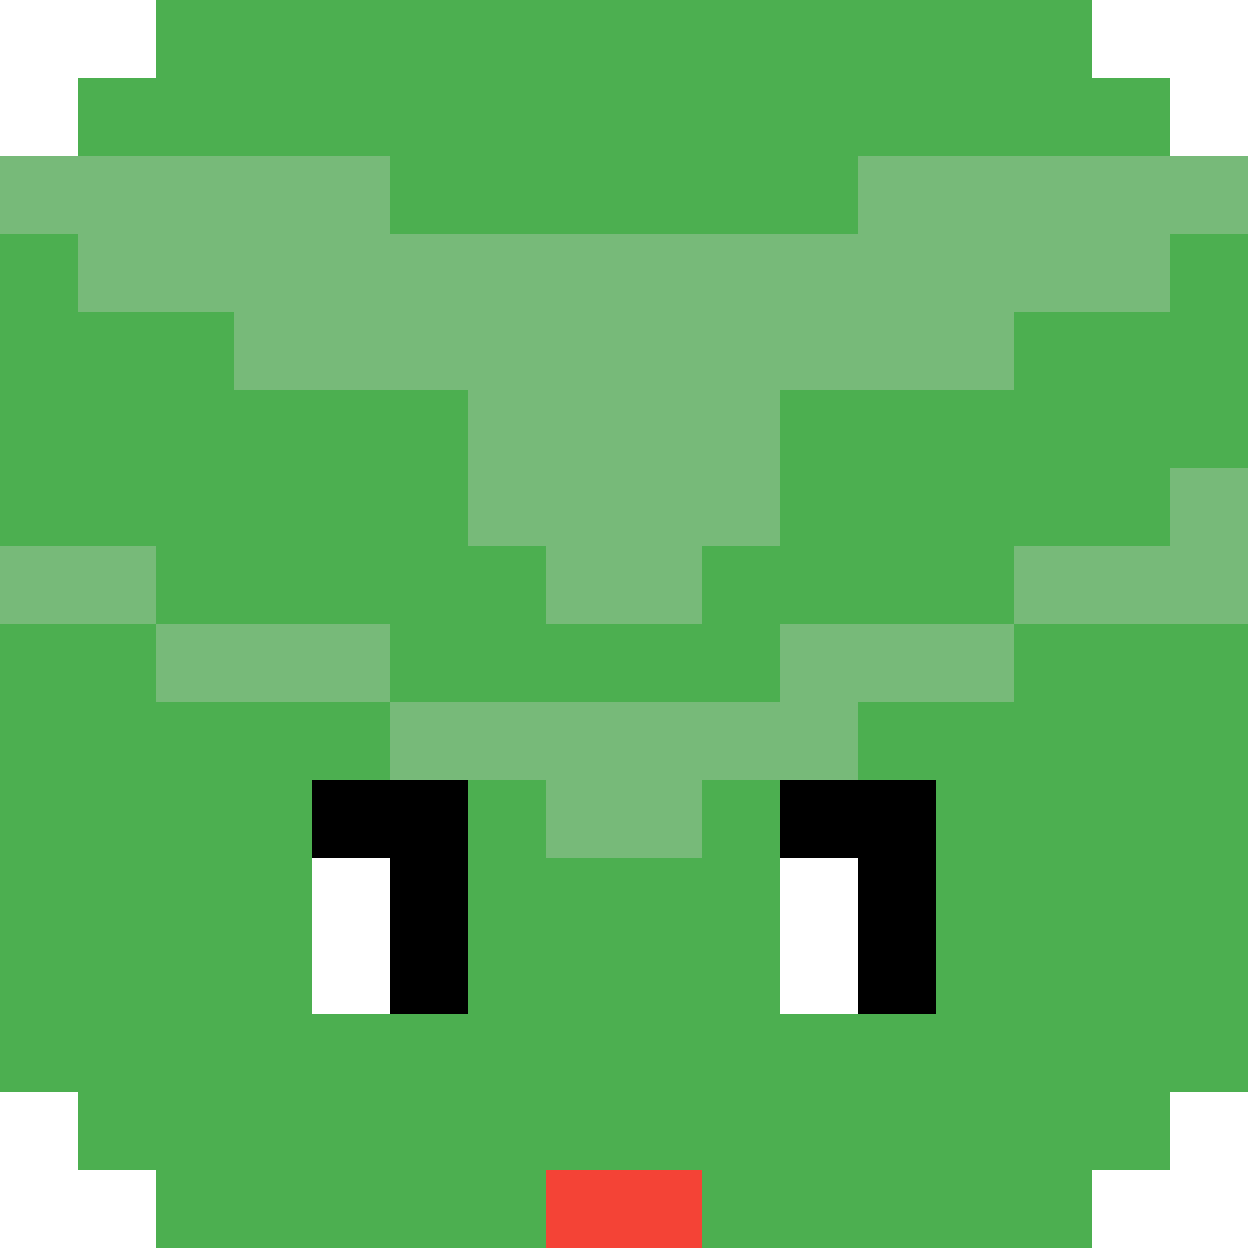
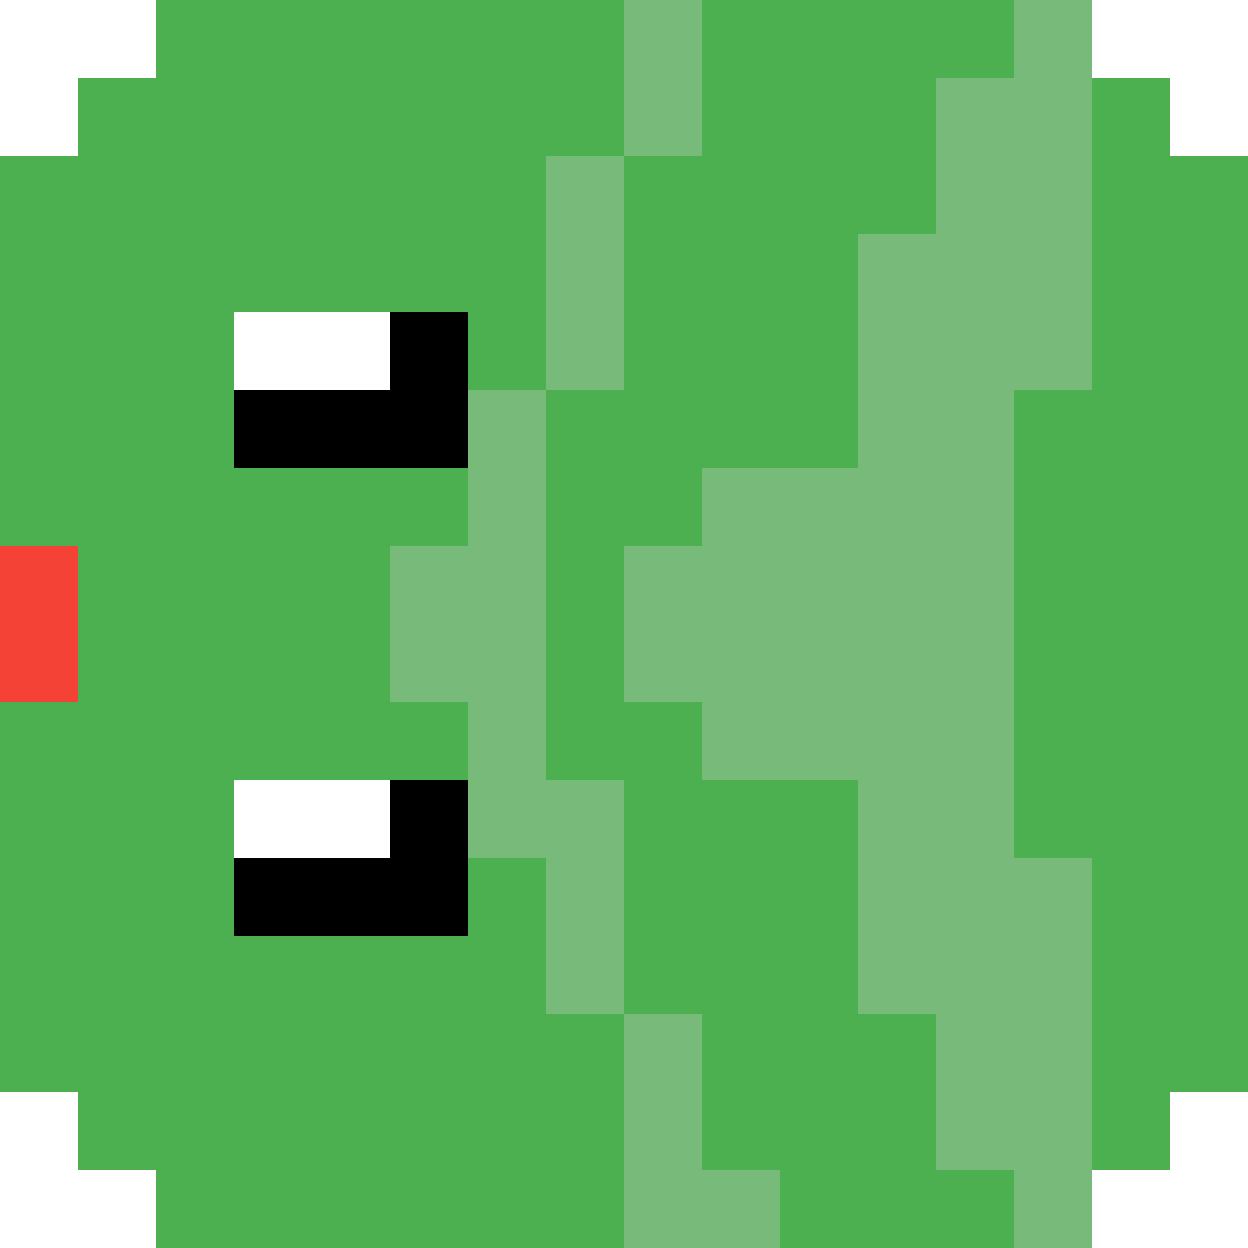
head changes position based off of key press

diff --git a/snakeGame/snakeGame.js b/snakeGame/snakeGame.js
@@ -1,27 +1,5 @@
-/*
-The board will have 18X18 squares, where each 
-at the top-left hand square is 0,0 and the bottom
-right-hand square is 17, 17
-
-Will be set up like so: board[x][y], where x is moving along
-columns (left and right) and y is moving along the rows (up and down) 
-
-Going down and right is positive, going left and up is negative
-*/
-
-/*
-Size of the board 
-----------------------------
-We will use a variable called boxSize, referring to the size
-of each box in the board
-Ex: if the boxSize = 25, and you wanted the food box at (1,1) or [1][1],
-you would have to write [1 * 25][1 * 25] in order for it to actually show. 
-If we didn't multiple it with the box size, then it wouldn't show up on the 
-canvas.
-*/
-
 //board
-var blockSize = 25; //what we're using to fill in the coordinates
+var blockSize = 25; 
 var rows = 20;
 var cols = 30;
 var board;
@@ -31,6 +9,10 @@ var context; //Used to draw with/ our drawing object
 //Width and height of snake and its semgents
 var snakeWidth = 31;
 var snakeHeight = 31;
+
+//Width and height of food
+var foodWidth = 20;
+var foodHeight = 20;
 
 //Drawing the snake head - the snake will initially start at coordinate (5, 5)
 //We have to multiply each coordinate by the blockSize for it to actually fill the coordinate space
@@ -45,8 +27,8 @@ var velocityY = 0;
 var snakeBody = [];
 
 //drawing food 
-var foodX = 100;
-var foodY = 300;
+var foodX = 200;
+var foodY = 200;
 
 //drawing obstacle
 var currX = 0;
@@ -62,26 +44,36 @@ var highestScore = 0;
 
 //When the page loads...
 window.onload = function() {
-    board = document.getElementById("board"); //Now the element board is this canvas element tag
-    board.height = 490;//rows * blockSize;
-    board.width = 700;//cols * blockSize;
-    context = board.getContext("2d"); //used for drawing on the board
-    context.clearRect(0, 0, board.width, board.height);
+    board = document.getElementById("board"); 
+    board.height = rows * blockSize;
+    board.width = cols * blockSize;
+    context = board.getContext("2d"); 
 
     //loading the images
+    //Snake Head images
+
+    snakeHeadPositions = {
+        up: new Image(),
+        down: new Image(),
+        left: new Image(),
+        right: new Image()
+    };
+
+    snakeHeadPositions.up.src = "./snakeHeadUp.png";
+    snakeHeadPositions.down.src = "./snakeHeadDown.png";
+    snakeHeadPositions.left.src = "./snakeHeadLeft.png";
+    snakeHeadPositions.right.src = "./snakeHeadRight.png";
+    snakeImg = snakeHeadPositions.right;
     
-    //Snake Head
-    snakeImg = new Image();
-    snakeImg.src = "./snakeHeadUp.png";
-    snakeImg.onload = function() {
-        context.drawImage(snakeImg, snakeX, snakeY, snakeWidth, snakeHeight);
-    }
+    // snakeImg.onload = function() {
+    //     context.drawImage(snakeImg, snakeX, snakeY, snakeWidth, snakeHeight);
+    // }
 
     //Food
     foodImg = new Image();
-    foodImg.src - "./food.png";
+    foodImg.src = "./food.png";
     foodImg.onload = function() {
-        context.drawImage(foodImg, foodX, foodY, 31, 31);
+        context.drawImage(foodImg, foodX, foodY, foodWidth, foodHeight);
     }
 
     //The score
@@ -106,25 +98,25 @@ function changeDirection(e) {
     if (e.code == "ArrowUp" && velocityY != 1){
         velocityX = 0;
         velocityY = -1;
-        headPos("./snakeHeadUp.png")
+        snakeImg = snakeHeadPositions.up;
     }
     //When going down, make sure it's not also going up
     else if (e.code == "ArrowDown" && velocityY != -1){
         velocityX = 0;
         velocityY = 1;
-        headPos("./snakeHeadDown.png")
+        snakeImg = snakeHeadPositions.down;
     }
     //When going left, make sure it's not also going right
     else if (e.code == "ArrowLeft" && velocityX != 1){
         velocityX = -1;
         velocityY = 0;
-        headPos("./snakeHeadLeft.png")
+        snakeImg = snakeHeadPositions.left;
     }
     //When going right, make sure it's not also going left
     else if (e.code == "ArrowRight" && velocityX != -1){
         velocityX = 1;
         velocityY = 0;
-        headPos("./snakeHeadRight.png")
+        snakeImg = snakeHeadPositions.right;
     }
     //Restart the game if it's a game over and the space bar is pressed
     else if (e.code == "Space" && gameOver == true)
@@ -147,28 +139,12 @@ function changeDirection(e) {
     start = false;
 }
 
-//Update position of the head
-function headPos(headToUse)
-{
-    snakeImg.src = headToUse;
-    snakeImg.onload = function() {
-        context.drawImage(snakeImg, snakeX, snakeY, snakeWidth, snakeHeight)
-    }
-}
-
-//Update the board on the HTML and redraw what we want 
-//Running this function once will only do everything once 
+//Update the board  
 function update() {
     //If game over, return to stop updating the canvas/drawing
     if (gameOver) 
         return;
     
-    //context.clearRect(0, 0, board.width, board.height); // clearing the frames
-
-    /*
-    context.fillStyle="black"; //change color of pen to black
-    context.fillRect(0, 0, board.width, board.height); //starting from corner of canvas and filling a width and height of 500 (from 25 x 25)
-    */
     if (start)
     {
         context.fillStyle = "white";
@@ -178,15 +154,8 @@ function update() {
         context.fillText("Press an arrow key to begin", 145, 300);
     }
     else{
-        //context.fillStyle="black";
         context.clearRect(0, 0, board.width, board.height);
     }
-
-    //Painting the food under the snake head (why it's being drawn first)
-    /*
-    context.fillStyle = "red";
-    context.fillRect(foodX, foodY, blockSize, blockSize);
-    */
 
     //Painting the obstacle
     for (let i = 0; i <= currX && i <= currY; i++)
@@ -194,6 +163,9 @@ function update() {
         context.fillStyle = "white";
         context.fillRect(obstX[i], obstY[i], blockSize, blockSize);
     }
+
+    //Draw the food
+    context.drawImage(foodImg, foodX, foodY, foodWidth, foodHeight);
     
     //Snake eating food
     if (snakeX == foodX && snakeY == foodY){
@@ -218,14 +190,7 @@ function update() {
         snakeBody[0] = [snakeX, snakeY];
     }
 
-    //The color of the snake head
-    /*
-    context.fillStyle = "lime";
-    snakeX += velocityX * blockSize; //w/o blockSize, it will go really slow; will now move 1 square over rather than 1 pixel over
-    snakeY += velocityY * blockSize;
-    context.fillRect(snakeX, snakeY, blockSize, blockSize); //filRect(x-cor, y-cor, width, height)
-    */
-
+   //Moving the snake head
     snakeX += velocityX * blockSize;
     snakeY += velocityY * blockSize;
     context.drawImage(snakeImg, snakeX, snakeY, snakeWidth, snakeHeight);
@@ -242,7 +207,6 @@ function update() {
     if (snakeX < 0 || snakeX > cols*blockSize || snakeY < 0 || snakeY > rows * blockSize){
         gameOver = gameIsOver();
     } 
-
     for (let i = 0; i < snakeBody.length; i++) {
         if (snakeBody[i][0] < 0 || snakeBody[i][0] > cols * blockSize || snakeBody[i][1] < 0 || snakeBody[i][1] > rows * blockSize){
             gameOver = gameIsOver();
@@ -281,7 +245,7 @@ function updateFoodObst(){
     foodY = Math.floor(Math.random() * rows) * blockSize;
 
     foodImg.onload = function() {
-        context.drawImage(foodImg, foodX, foodY, 31, 31);
+        context.drawImage(foodImg, foodX, foodY, foodWidth, foodHeight);
     }
 
     //Make sure the obstacle is not in the same position as the food
